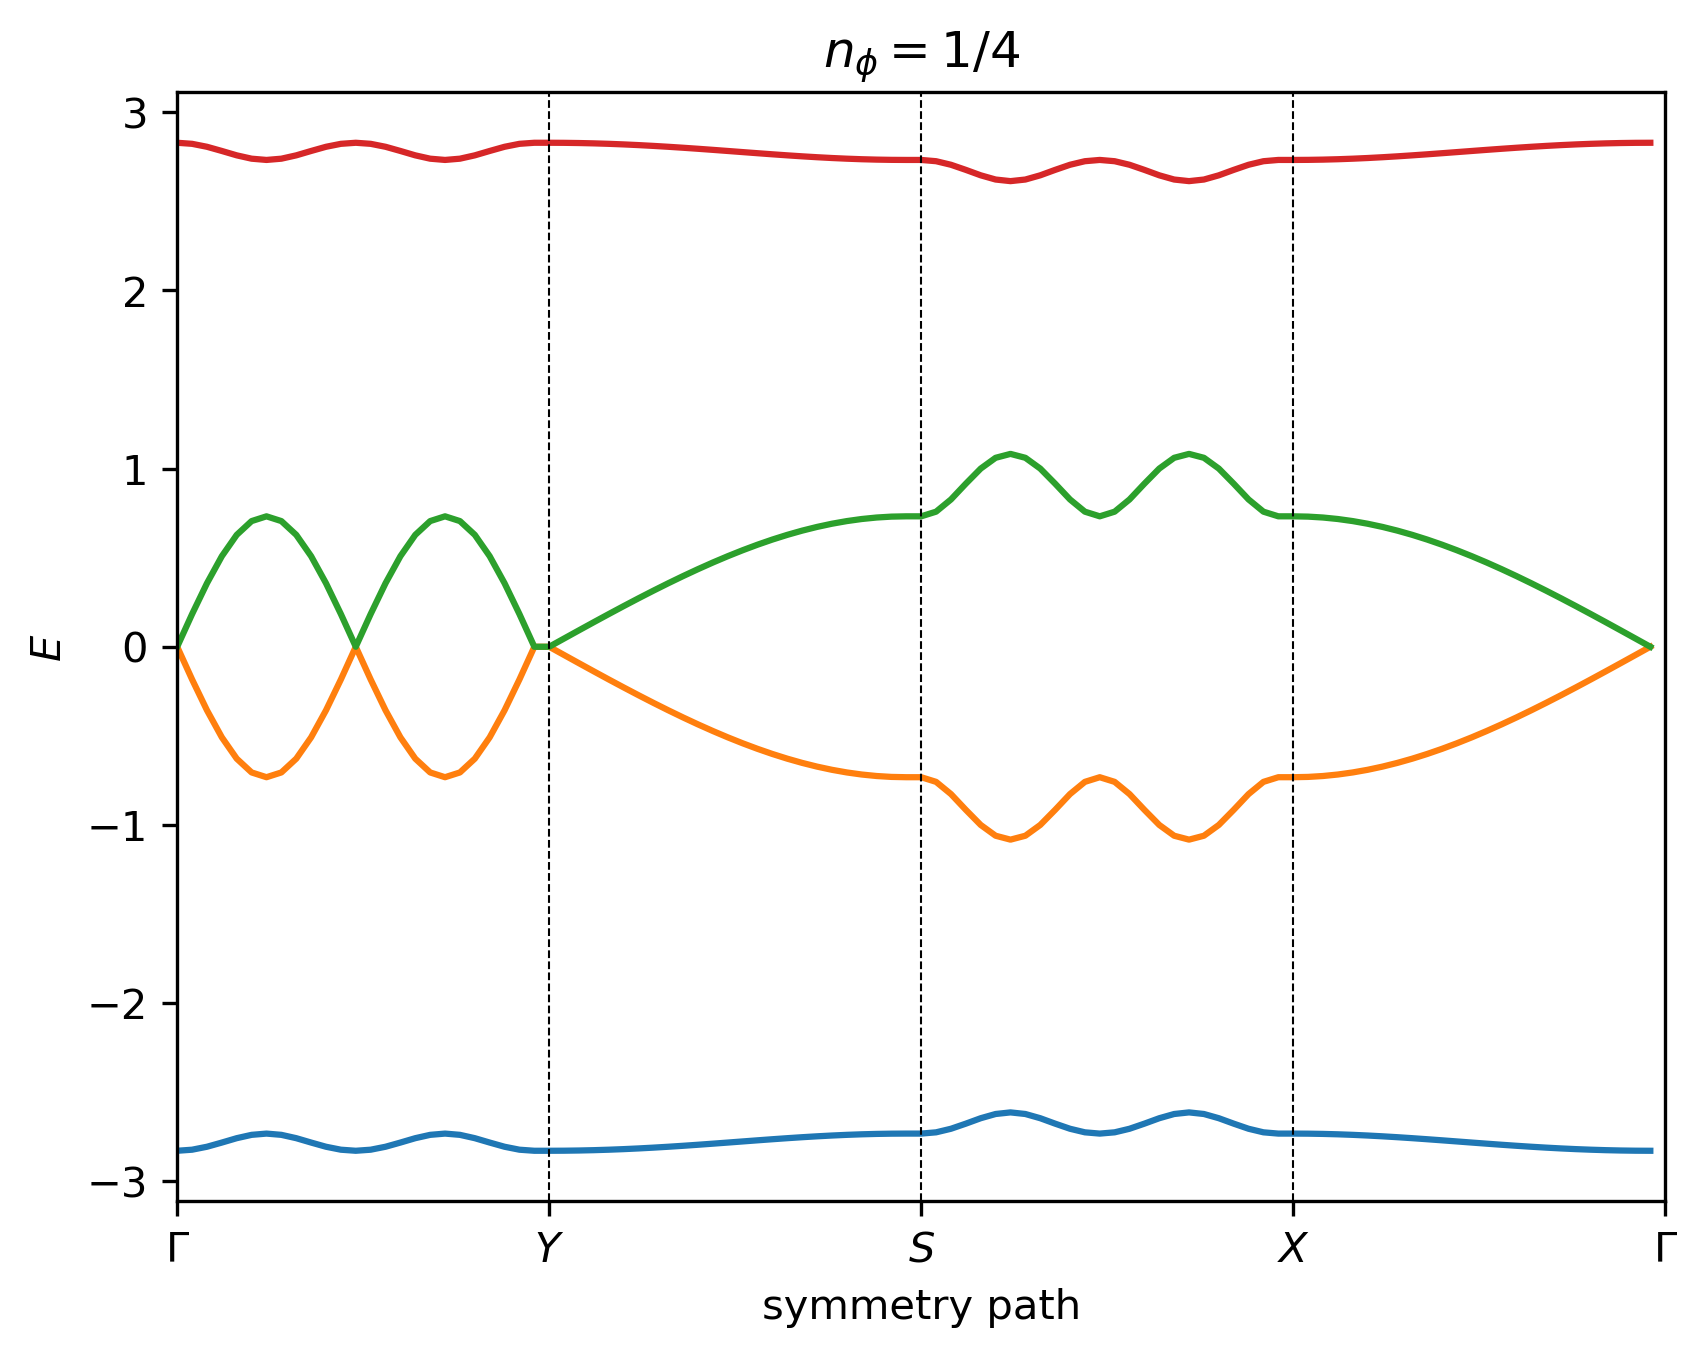
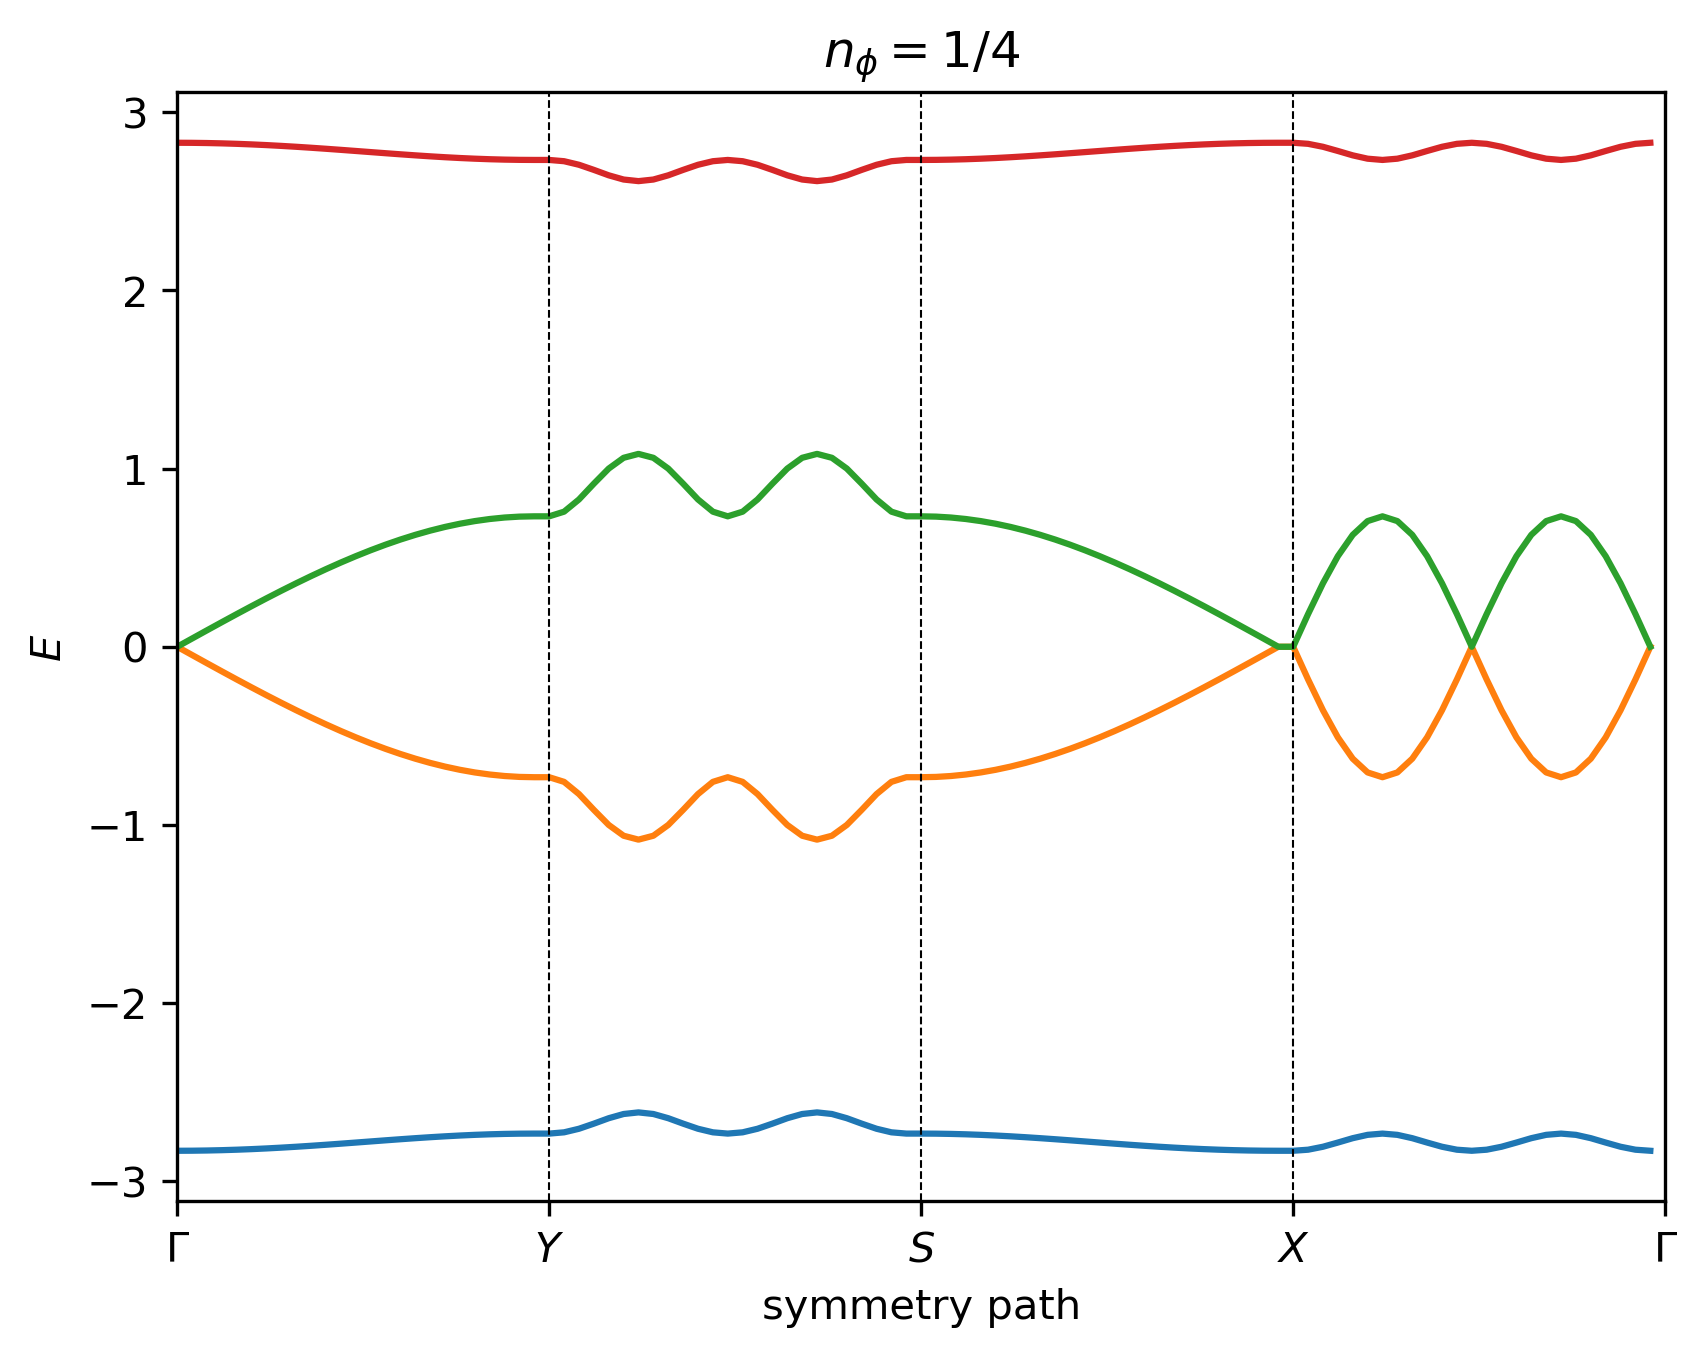
correct reciprocal lattice vectors

diff --git a/code/models/hofstadter.py b/code/models/hofstadter.py
@@ -49,6 +49,8 @@ class Hofstadter:
         self.t = t  #: list : The list of hopping amplitudes in order of ascending NN (default=[1]).
         self.lat = lat  #: str : The name of the lattice (default="square").
         self.alpha = alpha  #: float : The anisotropy of the Bravais lattice vectors (default=1).
+        self.theta0 = theta[0]  #: int : The numerator of the fractional angle between Bravais lattice vectors in units of pi (default=1).
+        self.theta1 = theta[1]  #: int : The denominator of the fractional angle between Bravais lattice vectors in units of pi (default=3).
         self.theta = (theta[0]/theta[1])*np.pi  #: float : The angle between Bravais lattice vectors (default=pi/3).
         self.period = period  #: int : The factor by which to divide A_UC in the flux density (default=1).
 
@@ -77,13 +79,12 @@ class Hofstadter:
             # basis vectors
             abasis1 = self.a0 * np.array([0, 0])
             abasisvec_val = np.array([abasis1])
-            # reciprocal lattice vectors
-            b1 = (2. * np.pi) / self.a0 * np.array([1, 0])
-            b2 = (2. * np.pi) / self.a0 * np.array([0, 1])
+            # lattice vectors (MUC)
+            aMUC1 = a1
+            aMUC2 = self.q * a2
+            aMUCvec_val = np.vstack((aMUC1, aMUC2))
             # reciprocal lattice vectors (MUC)
-            bMUC1 = b1 / self.q
-            bMUC2 = b2
-            bMUCvec_val = np.vstack((bMUC1, bMUC2))
+            bMUCvec_val = fm.reciprocal_vectors(aMUCvec_val)
             # symmetry points
             GA = np.array([0, 0])
             Y = np.array([0, 0.5])
@@ -98,13 +99,12 @@ class Hofstadter:
             # basis vectors
             abasis1 = self.a0 * np.array([0, 0])
             abasisvec_val = np.array([abasis1])
-            # reciprocal lattice vectors
-            b1 = (2. * np.pi) / self.a0 * np.array([1, -1 / np.sqrt(3)])
-            b2 = (2. * np.pi) / self.a0 * np.array([0, 2 / np.sqrt(3)])
+            # lattice vectors (MUC)
+            aMUC1 = a1
+            aMUC2 = self.q * a2
+            aMUCvec_val = np.vstack((aMUC1, aMUC2))
             # reciprocal lattice vectors (MUC)
-            bMUC1 = b1 / self.q
-            bMUC2 = b2
-            bMUCvec_val = np.vstack((bMUC1, bMUC2))
+            bMUCvec_val = fm.reciprocal_vectors(aMUCvec_val)
             # symmetry points
             GA = np.array([0, 0])
             Y = np.array([0, 0.5])
@@ -119,14 +119,12 @@ class Hofstadter:
             # basis vectors
             abasis1 = np.array([0, 0])
             abasisvec_val = np.array([abasis1])
-            # reciprocal lattice vectors
-            rec_factor = (2. * np.pi) / (a1[0]*a2[1] - a1[1]*a2[0])
-            b1 = rec_factor * np.array([a2[1], -a2[0]])
-            b2 = rec_factor * np.array([-a1[1], a1[0]])
+            # lattice vectors (MUC)
+            aMUC1 = a1
+            aMUC2 = self.q * a2
+            aMUCvec_val = np.vstack((aMUC1, aMUC2))
             # reciprocal lattice vectors (MUC)
-            bMUC1 = b1 / self.q
-            bMUC2 = b2
-            bMUCvec_val = np.vstack((bMUC1, bMUC2))
+            bMUCvec_val = fm.reciprocal_vectors(aMUCvec_val)
             # symmetry points
             GA = np.array([0, 0])
             Y = np.array([0, 0.5])
@@ -142,14 +140,12 @@ class Hofstadter:
             abasis1 = np.array([0, 0])
             abasis2 = np.array([(1 / 2) * a1[0], (1 / 3) * a2[1]])  # centroid is 1/3 of the way up
             abasisvec_val = np.vstack((abasis1, abasis2))
-            # reciprocal lattice vectors
-            rec_factor = (2. * np.pi) / (a1[0] * a2[1] - a1[1] * a2[0])
-            b1 = rec_factor * np.array([a2[1], -a2[0]])
-            b2 = rec_factor * np.array([-a1[1], a1[0]])
+            # lattice vectors (MUC)
+            aMUC1 = a1
+            aMUC2 = self.q * a2
+            aMUCvec_val = np.vstack((aMUC1, aMUC2))
             # reciprocal lattice vectors (MUC)
-            bMUC1 = b1 / self.q
-            bMUC2 = b2
-            bMUCvec_val = np.vstack((bMUC1, bMUC2))
+            bMUCvec_val = fm.reciprocal_vectors(aMUCvec_val)
             # symmetry points
             K1 = np.array([2/3, 1/3])
             GA = np.array([0., 0.])
@@ -166,14 +162,12 @@ class Hofstadter:
             abasis2 = np.array([(1 / 2) * a1[0], 0])
             abasis3 = np.array([(1 / 2) * a2[0], (1 / 2) * a2[1]])
             abasisvec_val = np.vstack((abasis1, abasis2, abasis3))
-            # reciprocal lattice vectors
-            rec_factor = (2. * np.pi) / (a1[0] * a2[1] - a1[1] * a2[0])
-            b1 = rec_factor * np.array([a2[1], -a2[0]])
-            b2 = rec_factor * np.array([-a1[1], a1[0]])
+            # lattice vectors (MUC)
+            aMUC1 = a1
+            aMUC2 = self.q * a2
+            aMUCvec_val = np.vstack((aMUC1, aMUC2))
             # reciprocal lattice vectors (MUC)
-            bMUC1 = b1 / self.q
-            bMUC2 = b2
-            bMUCvec_val = np.vstack((bMUC1, bMUC2))
+            bMUCvec_val = fm.reciprocal_vectors(aMUCvec_val)
             # symmetry points
             K1 = np.array([2/3, 1/3])
             GA = np.array([0., 0.])
@@ -190,14 +184,12 @@ class Hofstadter:
             abasis2 = np.array([(1 / 2) * a1[0], 0])
             abasis3 = np.array([(1 / 2) * a2[0], (1 / 2) * a2[1]])
             abasisvec_val = np.vstack((abasis1, abasis2, abasis3))
-            # reciprocal lattice vectors
-            rec_factor = (2. * np.pi) / (a1[0] * a2[1] - a1[1] * a2[0])
-            b1 = rec_factor * np.array([a2[1], -a2[0]])
-            b2 = rec_factor * np.array([-a1[1], a1[0]])
+            # lattice vectors (MUC)
+            aMUC1 = a1
+            aMUC2 = self.q * a2
+            aMUCvec_val = np.vstack((aMUC1, aMUC2))
             # reciprocal lattice vectors (MUC)
-            bMUC1 = b1 / self.q
-            bMUC2 = b2
-            bMUCvec_val = np.vstack((bMUC1, bMUC2))
+            bMUCvec_val = fm.reciprocal_vectors(aMUCvec_val)
             # symmetry points
             K1 = np.array([2/3, 1/3])
             GA = np.array([0., 0.])
@@ -227,9 +219,9 @@ class Hofstadter:
             Hamiltonian = fm.BasicSquareHamiltonian(self.t, self.p, self.q, k_val, self.period)
         elif self.lat == "triangular" and len(self.t) == 1:
             Hamiltonian = fm.BasicTriangularHamiltonian(self.t, self.p, self.q, k_val, self.period)
-        elif self.lat == "honeycomb" and len(self.t) == 1:
+        elif self.lat == "honeycomb" and len(self.t) == 1 and self.alpha == 1 and self.theta0 == 1 and self.theta1 == 3:
             Hamiltonian = fm.BasicHoneycombHamiltonian(self.t, self.p, self.q, k_val, self.period)
-        elif self.lat == "kagome" and len(self.t) == 1:
+        elif self.lat == "kagome" and len(self.t) == 1 and self.alpha == 1 and self.theta0 == 1 and self.theta1 == 3:
             Hamiltonian = fm.BasicKagomeHamiltonian(self.t, self.p, self.q, k_val, self.period)
         else:  # general case
             _, avec, abasisvec, _, _ = self.unit_cell()

diff --git a/code/functions/band_structure.py b/code/functions/band_structure.py
@@ -168,7 +168,7 @@ def berry_curv(_eigenvectors, _band, _idx_x, _idx_y, _group_size=1, method=1):
     return Berry_curv
 
 
-def wilson_loop(_eigenvectors, _band, _idx_x, _group_size=1):
+def wilson_loop(_eigenvectors, _band, _idx_y, _group_size=1):
     r"""
     Compute the Wilson loop.
 
@@ -179,16 +179,28 @@ def wilson_loop(_eigenvectors, _band, _idx_x, _group_size=1):
 
     where :math:`\tilde{\mathcal{U}}_2` is the normalized link variable, :math:`\mathbf{k}_\alpha` is the momentum vector, and the product is taken on a Brillouin zone cycle in the :math:`\gamma=2` direction. :cite:`Gresch18`
 
+    Parameters
+    ----------
+    _eigenvectors: ndarray
+        The array of eigenvectors with dimension (num_bands, num_bands, num_samples, num_samples).
+    _band: int
+        The band number. If part of a band group, this must refer to the lowest band of the group.
+    _idx_y: int
+        The y-momentum index, with respect to the discretized grid.
+    _group_size: int
+        The number of touching bands a.k.a. number of bands in the band group (default=1).
+
     Returns
     -------
     Wilson_loop: complex
         The Wilson loop term.
     """
 
-    numb_ky = np.shape(_eigenvectors)[3]
+    # print("np.shape(_eigenvectors) = ", np.shape(_eigenvectors))
+    numb_kx = np.shape(_eigenvectors)[2]
     product = 1
-    for j in range(numb_ky):
-        product *= U(2, _eigenvectors, _band, _idx_x, j, _group_size)
+    for i in range(numb_kx):
+        product *= U(1, _eigenvectors, _band, i, _idx_y, _group_size)
     Wilson_loop = -np.imag(np.log(product))
 
     return Wilson_loop

diff --git a/code/band_structure.py b/code/band_structure.py
@@ -169,13 +169,14 @@ if __name__ == '__main__':
             TISM, DISM = np.zeros((2, num_bands, samp - 1, samp - 1))  # real
         for band, group in tqdm(enumerate(band_group), desc="Band Properties", ascii=True):
             group_size = np.count_nonzero(band_group == group)
-            for idx_x in range(samp - 1):
+            for idx_y in range(samp - 1):
                 if wil:
                     if group != band_group[band - 1]:
-                        data['wilson_loops'][band, idx_x] = fbs.wilson_loop(data['eigenvectors'], band, idx_x, group_size)
+                        data['wilson_loops'][band, idx_y] = fbs.wilson_loop(data['eigenvectors'], band, idx_y,
+                                                                            group_size)
                     else:
-                        data['wilson_loops'][band, idx_x] = data['wilson_loops'][band - 1, idx_x]
-                for idx_y in range(samp - 1):
+                        data['wilson_loops'][band, idx_y] = data['wilson_loops'][band - 1, idx_y]
+                for idx_x in range(samp - 1):
                     if group != band_group[band - 1]:
                         berry_fluxes[band, idx_x, idx_y] = fbs.berry_curv(data['eigenvectors'], band, idx_x, idx_y, group_size)
                         # quantum geometry

diff --git a/code/functions/models.py b/code/functions/models.py
@@ -6,6 +6,45 @@ from mpl_toolkits.mplot3d import axes3d
 from copy import deepcopy
 
 
+def reciprocal_vectors(avec):
+    r"""Finds the reciprocal lattice vectors in 2D.
+
+    .. math::
+        \begin{pmatrix}
+        b_{1x} & b_{2x} \\
+        b_{1y} & b_{2y}
+        \end{pmatrix} =
+        \frac{2\\\pi}{a_{1x}a_{2y} - a_{1y}a_{2x}}
+        \begin{pmatrix}
+        a_{2y} & -a_{1y} \\
+        -a_{2x} & a_{1x}
+        \end{pmatrix}
+
+    Parameters
+    ----------
+    avec: ndarray
+        The array of real-space lattice vectors.
+
+    Returns
+    -------
+    bvec: ndarray
+        The array of reciprocal-space lattice vectors.
+    """
+
+    if len(avec) != 2:
+        raise ValueError("Reciprocal lattice vector function only works in 2D.")
+
+    a1 = avec[0]
+    a2 = avec[1]
+
+    rec_factor = (2*np.pi) / (a1[0] * a2[1] - a1[1] * a2[0])
+    b1 = rec_factor * np.array([a2[1], -a2[0]])
+    b2 = rec_factor * np.array([-a1[1], a1[0]])
+    bvec = np.vstack((b1, b2))
+
+    return bvec
+
+
 def nearest_neighbor_finder(avec, abasisvec, t_list, x_init, y_init, basis_init):
     """Finds the relevant nearest neighbors for a given lattice.
 

diff --git a/code/functions/plotting.py b/code/functions/plotting.py
@@ -84,10 +84,10 @@ def band_structure(model, args, data):
             fig2.canvas.manager.set_window_title('Wilson Loops')
             ax2 = fig2.add_subplot(111)
             ax2.set_title(f"$n_\\phi = {args['nphi'][0]}/{args['nphi'][1]}$")
-            idx_x = np.linspace(0, samp - 1, samp, dtype=int)
+            idx_y = np.linspace(0, samp - 1, samp, dtype=int)
             for i in range(num_bands):
-                ax2.scatter(idx_x, wilson_loops[i], s=ps*rcParams['lines.markersize']**2)
-            ax2.set_xlabel('$k_1/|\\mathbf{b}_1|$')
+                ax2.scatter(idx_y, wilson_loops[i], s=ps*rcParams['lines.markersize']**2)
+            ax2.set_xlabel('$k_2/|\\mathbf{b}_2|$')
             ax2.set_ylabel('$\\prod \\theta_\\mathrm{B}$')
             ax2.xaxis.set_major_formatter(plt.FuncFormatter(normalize))
             ax2.yaxis.set_major_formatter(plt.FuncFormatter(normalize))

diff --git a/docs/source/troubleshooting.rst b/docs/source/troubleshooting.rst
@@ -47,6 +47,12 @@ If you are executing your program from a different location, then the ``-input``
 
 By default, the tqdm progress bar is streamed to stderr. Hence, the progress bar is shortened to 10 characters when logging to make the log files more readable.
 
+.. admonition:: Question
+
+	I have adjusted the ``-alpha`` lattice anisotropy flag and now the band structures and butterfly spectra look odd. Is this expected behavior?
+
+In HofstadterTools, nth-nearest neighbors are defined as a group of sites that are the same radius from a reference site. We stress that these points lie on a *circle* and not, for example, on an ellipse that is scaled by the Bravais lattice vector lengths. Hence, by adjusting the lattice anisotropy, you may inadvertently change the number of nearest neighbors.
+
 band_structure Questions
 ------------------------
 
